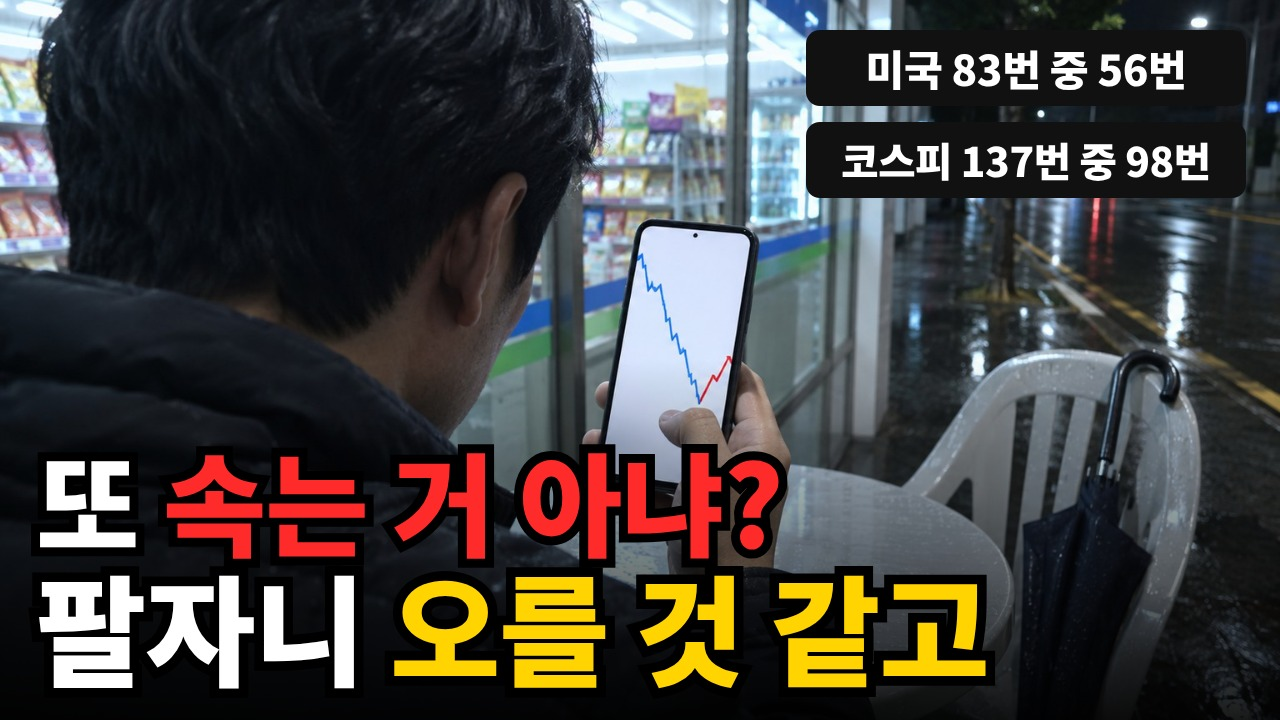
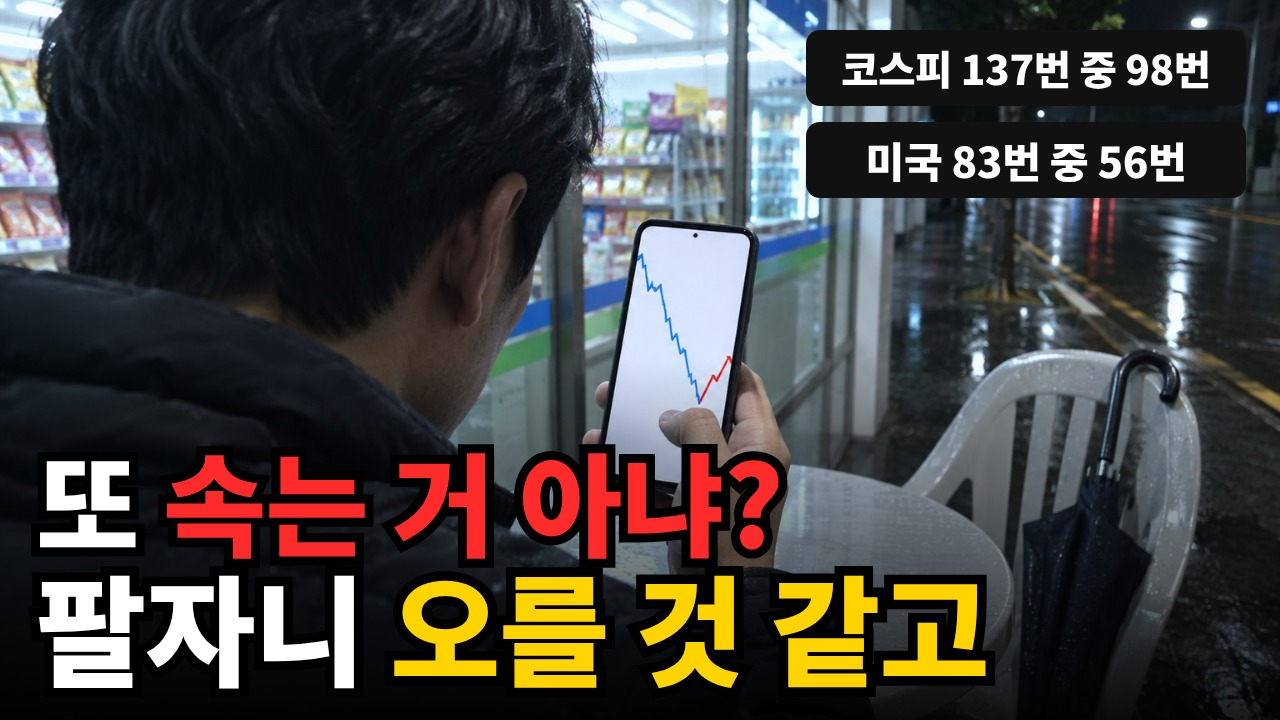
[stock] 반등 편 최종 3안 — 피드 시험 18회차 · 대본 도입 v7.2
- 제목 ① 반등에 팔까 버틸까? 급반등 셋 중 둘은 저점을 또 깼다
       ② 물렸는데 또 속는 걸까? 급반등 셋 중 둘은 저점을 또 깼다
       ③ 물렸는데 반등, 팔까 버틸까? 셋 중 둘은 저점을 또 깼다
- 썸네일 3장 다시 렌더 (꼬리표 코스피 먼저 · 2장은 '급반등' 붙임)
- 대본 도입 v7.2 (기준·코스피 숫자 10초 안 · 버텼다면 3.7년 · 절반 매도 뒤 먼저 10% 오른 경우) · board_check 통과
- upload.md v1.7 (최종 3안·버린 꼴·챕터·숫자 대조) · persona_judge_review v1.5 · persona_judge.md v1.5 · CHANGELOG · status

Claude-Session: https://claude.ai/code/session_01PYG2MqLt55ZgMMSmpQGuwc

Changed region(s): [[0.6562, 0.1833, 0.9688, 0.275], [0.6562, 0.0611, 0.9688, 0.1222]]

diff --git a/stock/source/bandeung-maesu-2026-11/upload.md b/stock/source/bandeung-maesu-2026-11/upload.md
@@ -1,51 +1,57 @@
 # bandeung-maesu-2026-11 업로드 시트 (롱폼)
 
-버전: v1.6 — 2026-11-11 — **제목·썸네일을 '피드 시험'으로 다시 정함** (사용자 "너가 페르소나 입장에서 생각했을 때 썸네일 문구, 보조문구, 제목만 봤을 때 썸네일 클릭할 것 같아 안할것 같아?" → "계속 진행해"): 이번 주 실제 영상 제목 10개 사이에 우리 제목을 섞고, 어느 게 우리 건지 모르는 새 검토자 8명(물린 개미 4·안 믿는 개미 4)에게 '뭘 누를지'를 물음 → 제목 본안 「계좌 -40%에 반등이 왔다, 팔까 버틸까? 과거 32번의 결과」 · 썸네일 본안 「내가 팔면 오른다? / 32번 중 14번」 · 대본 도입 8~9번을 새 제목에 이음(v7.1). 기록 `persona_judge_review.md` v1.4.
+버전: v1.7 — 2026-11-11 — **최종 3안 — 피드 시험 18회차까지 반복** (사용자 "너가 페르소나 입장에서 생각했을 때 썸네일 문구, 보조문구, 제목만 봤을 때 썸네일 클릭할 것 같아 안할것 같아? 안할거 같으면 계속 수정하라고 수정하고 페르소나 검증하고 정말 문제 없다고 결론낼 때 까지 계속 반복해 그게 끝나고 최종 3개 안만 나한테 알려줘"): 회차마다 새 검토자(물린 개미·안 믿는 개미) · 이번 주 실제 영상 10개 사이에 섞은 홈 화면 + 세 안 비교 + 처음 30초 내레이션 → 최종 3안(아래 1·2번) · 대본 도입 v7.2(1~12번) · 썸네일 3장 다시 렌더.
+이전 v1.6 — 2026-11-11 — **제목·썸네일을 '피드 시험'으로 다시 정함** (사용자 "너가 페르소나 입장에서 생각했을 때 썸네일 문구, 보조문구, 제목만 봤을 때 썸네일 클릭할 것 같아 안할것 같아?" → "계속 진행해"): 이번 주 실제 영상 제목 10개 사이에 우리 제목을 섞고, 어느 게 우리 건지 모르는 새 검토자 8명(물린 개미 4·안 믿는 개미 4)에게 '뭘 누를지'를 물음 → 제목 본안 「계좌 -40%에 반등이 왔다, 팔까 버틸까? 과거 32번의 결과」 · 썸네일 본안 「내가 팔면 오른다? / 32번 중 14번」 · 대본 도입 8~9번을 새 제목에 이음(v7.1). 기록 `persona_judge_review.md` v1.4.
 이전 v1.5 — 2026-11-11 — **대본 v7 기준으로 전부 다시** (사용자 지시 "너가 직접 페르소나 입장이 돼서 이탈되지 않도록 제목, 썸네일 문구 정하고 대본을 검증하라고 다시 그렇게해서 수정해봐"): 제목·썸네일은 새 검토자 둘(물린 개미·안 믿는 개미)이 세 회차에 걸쳐 고른 것 · 설명란·챕터·태그·고정 댓글을 v7 에 맞춤. 검토 기록 `persona_judge_review.md` v1.3.
 이전 v1.4 (2026-11-11 대본 v6 — 제목 등은 v5 기준이라 다시 만들어야 함 표시) · v1.3 (2026-11-10 대본 v5) · v1.2~v1.0 (2026-11-08 대본 v3~v1) — 내용은 git 이력.
-기준 파일: 대본 `bandeung-maesu-2026-11.txt` **v7.1** (도입 8~9번만 바뀜 · 128문장 · board_check 약 8.1분 ✅ 고칠 것 0) · 숫자 `calc/history.py` **v1.4** → `calc/history_result.json` (+ `calc/longform.py` v1.3 의 반등 20번) · 오디오·SRT 는 아직 없음.
+기준 파일: 대본 `bandeung-maesu-2026-11.txt` **v7.2** (도입 1~12번·첫 장 13~16번이 바뀜 · 129문장 · board_check 약 8.1분 ✅ 고칠 것 0) · 숫자 `calc/history.py` **v1.4** → `calc/history_result.json` (+ `calc/longform.py` v1.3 의 반등 20번) · 오디오·SRT 는 아직 없음.
 짝 쇼츠: `shorts/bandeung-maesu-2026-11-shorts.txt` — ⚠ 쇼츠는 옛 규칙(반등 10% · 평단 −20%마다 1.5배 · '개미 vs 대가') 그대로라 롱폼 v7 과 내용이 다름 → 다시 만들지 사용자 결정.
 
 > 업로드 채널 = 주식 채널(STOCK LAB) — 도구는 키의 채널이 다르면 멈춤.
 > 연구·교육용 콘텐츠 — 투자 상담이나 권유가 아님.
-> ⚠ **올리는 날 다시 확인할 것**: 대본 78번 「2026년 11월 10일 코스피는 최고가보다 42.5% 아래입니다」(기준일 숫자 — `python3 stock/source/bandeung-maesu-2026-11/calc/history.py` 를 새 자료로 다시 돌려 `kospi_bridge.now`) · 도입 첫 문장 「폭락 뒤에 주가가 반등했는데」는 시장이 반등한 날 둘레에 올려야 맞음(검토자: "올린 날 장이 빠지고 있으면 첫 문장부터 남 얘기").
+> ⚠ **올리는 날 다시 확인할 것**: 대본 79번 「2026년 11월 10일 코스피는 최고가보다 42.5% 아래입니다」(기준일 숫자 — `python3 stock/source/bandeung-maesu-2026-11/calc/history.py` 를 새 자료로 다시 돌려 `kospi_bridge.now`) · 도입 첫 문장 「폭락 뒤에 주가가 반등했는데」는 시장이 반등한 날 둘레에 올려야 맞음(검토자: "올린 날 장이 빠지고 있으면 첫 문장부터 남 얘기").
 
-## 1. 제목 (안 — 사용자가 고름 · 둘 다 `title_fit` 모든 화면 2줄 ✅)
+## 1. 제목 — 최종 3안 (사용자가 하나 고름 · 셋 다 `title_fit` 모든 화면 2줄 ✅ · 스튜디오 '테스트 및 비교'에 셋 다 넣을 수 있음)
 
-```
-계좌 -40%에 반등이 왔다, 팔까 버틸까? 과거 32번의 결과
-```
-
-| 안 | 제목 | 글자 | 피드 시험 (이번 주 실제 영상 10개 사이 · 검토자는 어느 게 우리 건지 모름 — **추정**) |
+| 안 | 제목 | 글자 | 짝 썸네일 |
 |---|---|---|---|
-| **1 (본안)** | 계좌 -40%에 반등이 왔다, 팔까 버틸까? 과거 32번의 결과 | 35 | 확인 회차 물린 개미·안 믿는 개미 **둘 다 이 제목 + 썸네일 1을 11개 중 1번째로 누름** ("과거에 32번 있었고 그 결과를 보여 준다는 거네, 이제 읽힌다") · 같은 꼴 「…32번의 그 뒤」로 홈 화면에 넣었을 때도 둘 다 1위 |
-| 2 | -40% 계좌에 반등, 팔면 바로 오를까? 과거 32번의 결과 | 34 | 같은 꼴 「…팔면 바로 오를까? 32번의 그 뒤」 확인 회차 둘 다 누름 ("내가 팔면 오르는 거 10년째다, 그걸 세 봤다고?") — 썸네일 1과 같은 말이 겹침 → 이 제목을 쓰면 썸네일은 2 |
-| 옛 본안 | 물렸는데 반등에 팔까 버틸까? 미국 증시 26년의 기록 | 30 | 홈 화면 물린 개미 2위 · 안 믿는 개미 3위 — 눌리긴 함. 식는 곳: "미국? 난 삼전인데" · "'26년의 기록'은 다큐·장투 훈계 예고" |
+| **1** | 반등에 팔까 버틸까? 급반등 셋 중 둘은 저점을 또 깼다 | 31 | `thumbnail_1.jpg` |
+| **2** | 물렸는데 또 속는 걸까? 급반등 셋 중 둘은 저점을 또 깼다 | 33 | `thumbnail_2.jpg` |
+| **3** | 물렸는데 반등, 팔까 버틸까? 셋 중 둘은 저점을 또 깼다 | 32 | `thumbnail_3.jpg` |
 
-- **'미국 증시'를 뺀 것만으로** 같은 물음의 제목이 물린 개미 2위 → 1위, 안 믿는 개미 3위 → 2위 (「…32번 돌려 본 실제 데이터」). '-40%'(내 계좌 숫자)를 넣자 안 믿는 개미도 1위.
-- **쓰지 않는 말 (검토자 6명이 속는 느낌이라고 함)**: '실제 데이터'·'실제 기록'(계산인데 '실제'를 붙이면 진짜 계좌인 줄 앎) · '돌려 본'(끼워 맞춘 느낌) · '해 봤습니다'(직접 매매한 줄 앎) · '계좌 32번'(계좌 32개인 줄 앎) · 'N번'만 덩그러니('32번이 뭔 32번이야' 7명 → '**과거** 32번의 **결과**'에서 읽힘) · '가짜'(기준이 없으면 낚시) · '또 떨어질까?'(전망 장사 냄새).
-- ⚠ **숫자 근거**: '-40%' = 시청자 처지(2026-11-10 코스피 −42.5% · 삼성전자 −45.1%)이자 계산의 가운데 값(32번 때 최고가 매수자 손실 가운데 값 42.3% — 조건은 '30% 넘게') · '과거 32번' = `stuck_rebound` n 32. 2회차 대본 검토에서는 제목의 '32번'이 "사실은 하락 세 번"이라 부풀려 읽힌다는 지적이 있었음 → **도입 8번에서 세 번의 폭락(닷컴 버블·금융위기·코로나)에서 나온 32번임을 먼저 밝힘**(v7.1). 올리는 날 코스피가 최고가 대비 −30% 안쪽으로 올라와 있으면 '-40%'는 시청자 처지와 안 맞음 → 그때는 옛 본안 꼴로.
-- ⚠ **제목에 시장 이름이 없음**: 검토자 넷이 "숨기고 들어갔는데 미국 얘기면 속은 기분"이라 함 → 썸네일 꼬리표 「미국·코스피 계산」으로 밝히고, 도입 4~5번에서 미국·코스피 숫자가 이어 나옴. 코스피 문장을 대본에서 빼면 이 제목은 못 씀.
+**피드 시험 결과 (검토자는 모델 — 추정)**
+- 1안: 10~18회차 검토자 약 30명이 홈 화면에서 3위 안으로 누름(대부분 1위) · 처음 30초 뒤 '끔' 0 · 속는 느낌 '없음'이 대부분 · 남은 말: 꼬리표 '미국'이 먼저(→ 코스피를 먼저로 고침).
+- 2안: 15~18회차 10명 모두 누름(물린 개미 넷 중 셋이 1위) · '끔' 0 · 남은 말: '30% 넘게 물렸는데' 옆 숫자를 30% 물린 경우로 읽음(한 명 — '급반등'을 꼬리표에 붙임) · "또 속는 걸까는 호구 소리 같다"(한 명, 그래도 누름).
+- 3안: 18회차 둘 다 홈 화면 1위 · 세 안 비교에서도 둘 다 누름 · '끔' 0 · 남은 말: "'셋 중 둘'이 뭐가 셋인지"(한 명 — 도입 10초 안에 83번 중 56번으로 풀림).
+- 세 안 모두 같은 사실(급반등 83번 중 56번 · 코스피 137번 중 98번 — 반년 안에 반등 직전 저점을 다시 깸)을 다른 첫마디로 — 결정(팔까 버틸까) · 처지+마음(물렸는데 또 속는) · 처지+결정.
+
+**버린 꼴과 까닭 (18회차 동안 — 다음 편에도 씀)**
+- 결과를 숨긴 제목(「…세어 봤다」·「…몇 년?」·「…그 말이 맞았는지 셌다」·「…의 결과」) → 안 믿는 개미가 "결과는 어디 있어" 멈춤.
+- 반반에 가까운 결과(판 뒤 먼저 오른 건 미국 32번 중 14번·코스피 70번 중 39번)를 제목에 → "반반을 법칙처럼"·"미끼" 끔. 썸네일에 「거의 반반」 → 넷 다 멈춤("볼 필요 없네").
+- 미국 숫자만 제목에(「미국 32번 중 14번」·「본전까지 3.7년」) → 물린 개미 "난 삼전인데" 멈춤 · 뒤에 미국인 걸 알면 김샘.
+- 「내가 팔면 오른다?」를 제목에 → 물린 개미는 누르지만 안 믿는 개미 넷이 "식상한 낚시·개미 놀림"(썸네일에서는 괜찮음).
+- 「닷컴·금융위기·코로나로 계산」 → "옛날 미국 얘기"(물린 개미 둘 멈춤) · 「반등 믿어도 될까?」 → "다른 채널이랑 똑같다"(둘 멈춤) · 「또 떨어질까?」·「그때 팔았다면?」 → 전망 냄새·뒷북.
+- 「본전은 길어야 다섯 달 늦었다」 → "−45%에 다섯 달? 달래는 말" 속는 느낌.
+- '실제 데이터·실제 기록·같은 처지 기록·해 봤습니다·판 뒤를 세어 봤다' → 진짜 사람 계좌·직접 매매로 읽힘.
+- ⚠ 올리는 날: 셋 다 '급반등이 온 날 둘레'에 맞는 제목 — 시장이 계속 빠지는 날에는 첫 문장(「폭락 뒤에 주가가 반등했는데」)부터 남 얘기. 79번 문장(코스피 −42.5%)은 그날 숫자로 다시 계산.
 - 클릭률 측정값은 없음 — 도달범위 보고서(`python3 tools/yt_reach.py stock fetch`)로 올린 뒤 확인.
 
-## 2. 썸네일 (3장 — `thumbnails/thumbnail_{1,2,3}.jpg` · 스튜디오 '테스트 및 비교')
+## 2. 썸네일 — 3장 (`thumbnails/thumbnail_{1,2,3}.jpg` · 같은 그림, 문구만 다름 · 제목 안과 같은 번호끼리 짝)
 
-| 장 | 주요 문구 (아래 2줄) | 말풍선 (시청자 속말) | 꼬리표 | 피드 시험 반응 |
-|---|---|---|---|---|
-| **1 본안** | 내가 팔면 오른다? / 32번 중 14번 | 버티면 또 떨어지고.. | 미국·코스피 계산 | 확인 회차 둘 다 누름 · 둘 다 1순위 조합 ("내 말이 그 말이야. 14번이면 반도 안 되네… 그럼 팔아도 된다는 거야?" · "뭘 '오른다'로 쳤는지 봐야겠다") |
-| 2 실험안 | 급반등 83번 중 / 56번은 가짜였다 | 또 속는 거 아냐..? | 미국 증시 기록 | 안 믿는 개미 누름("오늘 밤 눈이 먼저 가는 건 이것") · 물린 개미 멈춤만("겁만 주고") · ⚠ 제목의 32번과 숫자가 다름 |
-| 3 실험안 (옛 본안 = 대조군) | 3번 중 2번은 가짜 / 지금 팔까 버틸까 | 지금이라도 팔까.. | 미국 증시 기록 | 7명 중 4명 누름 · "뭐가 가짜인지 주어가 없다" · "'3번 중 2번'은 어림 말투" · 둘째 줄이 제목과 같은 말 |
+| 장 | 주요 문구 (아래 2줄) | 말풍선 | 꼬리표 (오른쪽 위) |
+|---|---|---|---|
+| **1** | 또 속는 거 아냐? / 팔자니 오를 것 같고 | 없음 | 코스피 137번 중 98번 · 미국 83번 중 56번 |
+| **2** | 30% 넘게 물렸는데 / 반등에 팔까 버틸까 | 팔자니 오를 것 같고.. | 코스피 급반등 137번 중 98번 · 미국 83번 중 56번 |
+| **3** | 팔면 오를 것 같고 / 버티면 또 떨어지고 | 없음 | 코스피 137번 중 98번 · 미국 83번 중 56번 |
 
-- **본안 문구의 근거**: '내가 팔면 오른다?' = 전체 댓글에서 좋아요가 가장 많은 묶음의 말("내가 나가는 순간 삼전하닉 … 날라갈꺼라서 못나감" 👍2,916 · "내가 삼전닉스 나가면 외국인이 돌아오고 만스피 감" 👍1,403 — `persona_judge.md` 3-A) · '32번 중 14번' = 대본 90번(절반 매도 뒤 먼저 오른 횟수, `stuck_rebound.up_first`) · 말풍선은 큰 글자와 같은 말을 되풀이하지 않고 딜레마의 나머지 반 · 정답(주식 수 5% 안팎·길어야 다섯 달)은 말하지 않음.
-- 버린 문구: 「팔든 버티든 / 주식 수 5% 차이」(확인 회차 둘 다 넘김 — "주식 수 5%가 뭔 소리야" · "차이 없다는 결론이면 볼 것도 없네" — 정답을 미리 말하면 안 누름) · 「팔자마자 오르면? / 32번 해 봤습니다」('해 봤습니다') · 「반등에 절반 팔았다 / 바로 오른 14번」(두 번 읽어야 함) · 「-40% 물린 계좌 / 반등에 팔까 버틸까」(제목과 같은 말) · 「또 속아서 샀다면 / 본전까지 몇 년?」(옛 실험안 — 이번에 견주지 않음).
-- 꼬리표: 「미국 32번 · 코스피 70번 계산」은 작아서 폰에서 안 읽히고 "코스피가 더 많은데 왜 큰 글자는 미국이냐"는 의심을 부름 → 짧고 크게 「미국·코스피 계산」. 물린 개미: "큰 글자가 미국 거면 난 코스피 70번 쪽 결과가 더 궁금함"(코스피는 70번 중 39번 — 대본 96번) → 코스피를 주인공으로 한 편은 다음 편 후보(`stock/topics/next_titles_2026-11-10.md`).
-- 그림 = `shorts/thumbnails/TH-PHOTO.jpg` (실사 · 밤 편의점 앞 · 어깨 너머 · 얼굴 안 보임) · 문구는 코드 `node video/render/thumb.mjs stock/source/bandeung-maesu-2026-11/thumbnails/thumbnail_{1,2,3}.json`. 말풍선·꼬리표는 사람 머리·손·휴대전화를 가리지 않는 오른쪽 위 빈 거리 위 (규칙 47).
-- ⚠ 시험의 한계: 검토자는 모델 · 경쟁 영상은 **제목만** 견줌(이 환경에서 다른 채널 썸네일 그림을 못 받음 — `i.ytimg.com` 막힘) · 페르소나마다 4명. 첫 회차 6명에게는 내가 쓴 속마음 요약 한 줄("팔면 바로 오를 것 같고…")이 설명에 들어가 우리 제목에 유리했음 → 확인 회차 2명은 원문 댓글만 줌(그래도 둘 다 1위).
+- 꼬리표 숫자 = 제목 '셋 중 둘'의 근거(안 믿는 개미: "몇 번 중 셋 중 둘인지 박아 놨네, 뻥은 아니겠다") · 코스피를 먼저(물린 개미 다수: "난 국장인데 미국이 먼저") · 2장은 '30% 넘게 물렸는데' 옆이라 '급반등'을 붙임(없으면 30% 물린 경우로 읽힘).
+- 문구 근거: '또 속는 거 아냐?'·'팔자니 오를 것 같고'·'버티면 또 떨어지고' = 이번 주 댓글의 속말("정말 지금이라도 수건을 던져야 하나 하루에도 수십번 왔다갔다" · "내가 나가는 순간 … 날라갈꺼라서 못나감" 👍2,916) · '30% 넘게 물렸는데' = 시청자 처지(2026-11-10 코스피 −42.5%).
+- 그림 = `shorts/thumbnails/TH-PHOTO.jpg` (실사 · 밤 편의점 앞 · 어깨 너머 · 얼굴 안 보임) · 문구는 코드 `node video/render/thumb.mjs stock/source/bandeung-maesu-2026-11/thumbnails/thumbnail_{1,2,3}.json` · 말풍선·꼬리표는 오른쪽 위 빈 거리 위(규칙 47 — 사람 머리·손·휴대전화를 가리지 않음).
 
 ## 3. 설명란 (그대로 복사 — 규칙 45: 소개 2줄 + 챕터 + 출처 + 알려 드립니다 + 해시태그 2개)
 
 ```
-폭락 뒤 반등을 보면서 '팔면 바로 오를 것 같고, 버티면 또 떨어질 것 같다' 싶었다면, 같은 자리에서 과거에 벌어진 일을 세어 봤습니다.
+폭락 뒤 반등을 보면서 '또 속는 거 아냐?', '팔자니 오를 것 같고 버티자니 또 떨어질 것 같다' 싶었다면, 같은 자리에서 과거에 벌어진 일을 세어 봤습니다.
 2000년 이후 미국 S&P 500의 급반등 83번과 큰 하락 6번, 깊이 물린 채 맞은 급반등 32번을 세고, 그때 절반을 매도했다면 어땠을지 계산했습니다. 코스피도 같은 기준으로 봤습니다.
 
 ■ 챕터
@@ -71,10 +77,10 @@
 
 - 챕터 시각은 오디오·SRT 가 생긴 뒤 4번 명령으로 채움.
 
-## 4. 챕터 다시 계산하기 (문장 번호 = 대본 v7)
+## 4. 챕터 다시 계산하기 (문장 번호 = 대본 v7.2)
 
 ```
-python tools/srt_tool.py upload stock/source/bandeung-maesu-2026-11/bandeung-maesu-2026-11.txt stock/source/bandeung-maesu-2026-11/bandeung-maesu-2026-11.srt --chapters "1=반등했는데 왜 불안할까;10=급반등 83번의 그 뒤;35=속아서 매수한 사람은 어떻게 됐나;58=매도하고 기다리면 안전할까;68=전부 걸지 않는다는 것;73=이미 많이 물렸다면;114=남겨 둔 현금이나 월급이라면;122=기록이 남긴 숫자 셋"
+python tools/srt_tool.py upload stock/source/bandeung-maesu-2026-11/bandeung-maesu-2026-11.txt stock/source/bandeung-maesu-2026-11/bandeung-maesu-2026-11.srt --chapters "1=반등했는데 왜 불안할까;13=급반등 83번의 그 뒤;36=속아서 매수한 사람은 어떻게 됐나;59=매도하고 기다리면 안전할까;69=전부 걸지 않는다는 것;74=이미 많이 물렸다면;115=남겨 둔 현금이나 월급이라면;123=기록이 남긴 숫자 셋"
 ```
 
 ## 5. 태그 (24개 — 편 낱말 + 실제 영상 태그 `stock/tag_candidates.md`)
@@ -125,26 +131,27 @@ python tools/srt_tool.py upload stock/source/bandeung-maesu-2026-11/bandeung-mae
 
 **영상까지 남은 순서** (quick_board 6번): ① 이 대본을 main 에 (Kaggle 셀은 main 만 읽음 — 지금은 작업 브랜치 `ccr-38db670e-r10a62`) → ② 오디오 → `python3 tools/audio_check.py stock bandeung-maesu-2026-11` → ③ 장면 코드 `video/episodes/bandeung-maesu-2026-11/index.html` (아직 없음) → `align-audio` → `sync` → `layout-check` → `video` → ④ 완성 mp4 를 직접 봄 → ⑤ 4번 명령으로 챕터 → `youtube_upload.py stock bandeung-maesu-2026-11 --dry-run` → `--publish-at`.
 
-## 8. 숫자 대조 (대본 v7.1 ↔ 계산 — 설명란에는 넣지 않음)
+## 8. 숫자 대조 (대본 v7.2 ↔ 계산 — 설명란에는 넣지 않음)
 
 | 대본 문장 | 숫자 | 계산 (`calc/history_result.json`) |
 |---|---|---|
-| 4·14·123 | 세 번 중 두 번 · 83번 중 56번 | `rebound_days` n 83 · fake 56 (0.675) |
-| 5 | 코스피 열 번 중 일곱 번 | `kospi_bridge` rebound 137 · fake 98 (0.715) · from 2000-01-04 |
-| 8 (v7.1) · 제목 '과거 32번' · 썸네일 '32번 중 14번' | 세 번의 폭락 속 급반등 32번 · 먼저 오른 14번 | `stuck_rebound` n 32 · declines 3 (by_decline 6·25·1) · up_first 14 |
-| 6~7·35~36 | 가짜 15번 모두 매수가 회복 · 3주~6년 · 9번이 1년 안 | `fake_buyers` n 15 · within_1y 9 · min 13거래일 · max 6.0년 |
-| 15~16 | 절반은 17거래일 · 기준 여섯 가지(열 번 중 여섯 번 안팎) | `rebound_days.days_to_break_median` 17 · `sens` 0.556~0.675 |
-| 18~22 | 2008-10-13 +11.6% → −32.6% · 20번 중 19번 | `notes.gspc_2008_10_13` · `gspc_more_drop_after` · `best_days.in_decline_10` 19 |
-| 27~30 | 스무 번 · 가짜 15(네 번 중 세 번) · 신호 13 대 전부 가짜 15 | `from_longform.signal` n 20 · actual_fake 15 · hits 13 |
-| 39~44 | 여섯 번 · 55.2% · 6.6년 · 11.7년 | `declines.rows` · `notes.dotcom_redip.years_peak_to_last_below` |
-| 48~49 | 코스피 네 번 5.5년 · 2011년 6년 | `kospi_bridge` years_max 5.5 · `peak_2011.years` 6.0 |
-| 51~55 | 여덟 곳 중 여섯 · 시스코 21년 · 씨티 −67% | `single_stocks.big8.over_10y` 6 · CSCO 21.4 · C now −67.0 |
-| 58~59·64 | 바닥 뒤 한 달 15.0% · 최소 10.7% · 9.1% | `declines.summary.after_low_1m_median`·`_min` · `best_days` 2020-03-24 |
-| 75~78 | 32번 · 세 번의 하락 · 42.3% · 코스피 42.5%(2026-11-10) | `stuck_rebound` n 32 · declines 3 · below_peak_median −42.3 · `kospi_bridge.now` |
-| 82~83 | 버티면 19.6% 더(급반등 다음 날 계좌 대비) · 본전 3.7년 | `stuck_rebound.hold_min_1y_median` −19.6 · `hold_years_median` 3.71 |
-| 87 | 105주쯤 · 95주쯤 | `shares_down_pct` 5.5 · `shares_up_pct` −4.6 |
-| 90~97 | 18 대 14 · 길어야 다섯 달 · 여섯 달 안 · 코스피 70번 중 39번 · 넉 달 | `down_first` 18 · `up_first` 14 · `max_later_months` 5.0 · `sens` 0.39·0.48년 · `kospi_bridge.stuck` 39/70 · 3.7달 |
-| 116~120 | 전부 매수 8번 → 나눠 매수 1번 · 13.7% → 5.2% · 2008-03 −24.9% | `from_longform.cash_plan` |
+| 4~5·13·29·125 · 제목 '셋 중 둘' · 썸네일 꼬리표 | 1년 최고가 −10% 뒤 하루 +3% · 83번 중 56번(반년 안 = 126거래일) · 묶으면 네 번 중 세 번 | `rebound_days` n 83 · fake 56 (0.675) · `from_longform.signal` 20·15 |
+| 6 · 썸네일 꼬리표 | 코스피 137번 중 98번 | `kospi_bridge` rebound 137 · fake 98 (0.715) · from 2000-01-04 |
+| 7~11 | 30% 넘게 물린 채 급반등 · 버텼다면 본전까지 가운데 값 3.7년 · 절반 매도 뒤 10% 더 떨어지기 전에 10% 오른 경우 미국 32번 중 14번 · 코스피 70번 중 39번 | `stuck_rebound` n 32 · hold_years_median 3.71 · up_first 14 · `kospi_bridge.stuck` n 70 · up_first 39 |
+| 15~16 | 저점 = 반등 직전 20거래일 최저 종가 · 깨진 56번의 절반은 17거래일 | `rebound_days.days_to_break_median` 17 |
+| 17 | 기준 여섯 가지(열 번 중 여섯 번 안팎) | `rebound_days.sens` 0.556~0.675 |
+| 19~23 | 2008-10-13 +11.6% → −32.6% · 20번 중 19번 | `notes.gspc_2008_10_13` · `gspc_more_drop_after` · `best_days.in_decline_10` 19 |
+| 28~32 | 스무 번 · 가짜 15 · 신호 13 대 전부 가짜 15 | `from_longform.signal` n 20 · actual_fake 15 · hits 13 |
+| 36~37 | 가짜 15번 모두 매수가 회복 · 9번 1년 안 · 최장 약 6년 | `fake_buyers` n 15 · within_1y 9 · max 6.0 |
+| 40~45 | 여섯 번 · 55.2% · 6.6년 · 11.7년 | `declines.rows` · `notes.dotcom_redip.years_peak_to_last_below` |
+| 49~50 | 코스피 네 번 5.5년 · 2011년 6년 | `kospi_bridge` years_max 5.5 · `peak_2011.years` 6.0 |
+| 52~56 | 여덟 곳 중 여섯 · 시스코 21년 · 씨티 −67% | `single_stocks.big8.over_10y` 6 · CSCO 21.4 · C now −67.0 |
+| 59~60·65 | 바닥 뒤 한 달 15.0% · 최소 10.7% · 9.1% | `declines.summary.after_low_1m_median`·`_min` · `best_days` 2020-03-24 |
+| 76~79 | 32번 · 세 번의 하락 · 42.3% · 코스피 42.5%(2026-11-10) | `stuck_rebound` n 32 · declines 3 · below_peak_median −42.3 · `kospi_bridge.now` |
+| 83~84 | 버티면 19.6% 더 · 본전 3.7년 | `stuck_rebound.hold_min_1y_median` −19.6 · `hold_years_median` 3.71 |
+| 88 | 105주쯤 · 95주쯤 | `shares_down_pct` 5.5 · `shares_up_pct` −4.6 |
+| 91~98 | 18 대 14 · 길어야 다섯 달 · 여섯 달 안 · 코스피 70번 중 39번 · 넉 달 | `down_first` 18 · `up_first` 14 · `max_later_months` 5.0 · `sens` · `kospi_bridge.stuck` 39/70 · 3.7달 |
+| 117~121 | 전부 매수 8번 → 나눠 매수 1번 · 13.7% → 5.2% · 2008-03 −24.9% | `from_longform.cash_plan` |
 
 - ⚠ **위험 관련 규칙이 바뀜 (대본 v5·v6 → v7)**: '이미 많이 물렸다면'의 실험 = (옛) 주식 80·현금 20 · 평단 −10% 에 절반 매도 · 판 값 −10·20·30% 재매수 → (새) **1년 최고가 대비 −30% 아래에서 나온 급반등 다음 날 절반 매도 · 판 값 ±10% 에서 다시 매수**. 까닭: 검토자(물린 개미) "−10%에 반 팔라는 건 이미 −50% 맞은 사람한텐 버스 떠난 얘기". 옛 숫자(5번 대 2번 · 36.6% 대 29.1%)는 v7 에 없음. 현금 쪽 규칙(첫 5% · 평단 −10%마다 5% · 최고가 회복 시 나머지)은 그대로.
 - 계산하지 않은 사실: '2000년 무렵 미국 시가총액 상위'(여덟 회사의 선정 — 널리 알려진 당시 순위에 따른 것 · 올리기 전 한 번 더 확인) .

diff --git a/stock/source/bandeung-maesu-2026-11/persona_judge_review.md b/stock/source/bandeung-maesu-2026-11/persona_judge_review.md
@@ -1,7 +1,33 @@
 # 반등 편 롱폼 — 판단용 페르소나 검토 (제목·썸네일 클릭 / 대본 이탈)
 
-VERSION: v1.4 — 2026-11-11 — **맨 위 '제목·썸네일 피드 시험' 절 새로** (사용자 "…제목만 봤을 때 썸네일 클릭할 것 같아 안할것 같아?" → "계속 진행해") · 제목·썸네일 본안 바뀜 · 대본 도입 8~9번(v7.1). v1.3 — 2026-11-11 — v7 절에 3회차 결과·끝 상태·남은 위험을 채움 (대본 v7 확정 — 128문장). v1.2 — 2026-11-11 — **맨 위 'v7 — 시청자로 읽기 검증' 절 새로** (사용자 지시 "너가 직접 페르소나 입장이 돼서 이탈되지 않도록 제목, 썸네일 문구 정하고 대본을 검증하라고 다시 그렇게해서 수정해봐" — `stock/guides/persona_judge.md` 9번). v1.1 — 2026-11-11 — **맨 위 'v6' 절 새로** (대본을 아예 새로 씀 — 사용자 지시 "…시청자의 생각은 폭락 후 반등했는데 이게 진짜로 반등하는건지 또 떨어질려고 하는건지 불안하다는거야 이걸 미국 주식 시장의 역사라는 정해져 있는 사실들을 근거로 해소로 해야돼"). 아래 0~4번은 v4 → v5 기록(지난 판). v1.0 — 2026-11-10 — 사용자 지시 "진짜,가짜반등 대본도 고쳐보고 제목 등 영상 만들 때 필요한거 생성해줘" · "페르소나 만들었으니 그것들을 잘 활용해야돼". 판단표 = `stock/guides/persona_judge.md` v1.1 (4번 클릭 · 5번 이탈) · 대상 = 사용자 완성본(v4 — 커밋 `0631853fe`) → 고친 대본 v5.
+VERSION: v1.5 — 2026-11-11 — **맨 위 '최종 3안 — 피드 시험 3~18회차' 절 새로** (사용자 "…정말 문제 없다고 결론낼 때 까지 계속 반복해 그게 끝나고 최종 3개 안만 나한테 알려줘"). v1.4 — 2026-11-11 — **맨 위 '제목·썸네일 피드 시험' 절 새로** (사용자 "…제목만 봤을 때 썸네일 클릭할 것 같아 안할것 같아?" → "계속 진행해") · 제목·썸네일 본안 바뀜 · 대본 도입 8~9번(v7.1). v1.3 — 2026-11-11 — v7 절에 3회차 결과·끝 상태·남은 위험을 채움 (대본 v7 확정 — 128문장). v1.2 — 2026-11-11 — **맨 위 'v7 — 시청자로 읽기 검증' 절 새로** (사용자 지시 "너가 직접 페르소나 입장이 돼서 이탈되지 않도록 제목, 썸네일 문구 정하고 대본을 검증하라고 다시 그렇게해서 수정해봐" — `stock/guides/persona_judge.md` 9번). v1.1 — 2026-11-11 — **맨 위 'v6' 절 새로** (대본을 아예 새로 씀 — 사용자 지시 "…시청자의 생각은 폭락 후 반등했는데 이게 진짜로 반등하는건지 또 떨어질려고 하는건지 불안하다는거야 이걸 미국 주식 시장의 역사라는 정해져 있는 사실들을 근거로 해소로 해야돼"). 아래 0~4번은 v4 → v5 기록(지난 판). v1.0 — 2026-11-10 — 사용자 지시 "진짜,가짜반등 대본도 고쳐보고 제목 등 영상 만들 때 필요한거 생성해줘" · "페르소나 만들었으니 그것들을 잘 활용해야돼". 판단표 = `stock/guides/persona_judge.md` v1.1 (4번 클릭 · 5번 이탈) · 대상 = 사용자 완성본(v4 — 커밋 `0631853fe`) → 고친 대본 v5.
 ※ **추정**입니다 — 클릭률·시청 지속 측정값이 아닙니다 (우리 채널 자료 없음). 연구·교육용 — 투자 권유 아님.
+
+## 최종 3안 — 피드 시험 3~18회차 (2026-11-11 · 회차마다 새 검토자 · 모두 약 90명)
+
+**방법**: 회차마다 새 검토자(물린 개미 A · 안 믿는 개미 E, 처지와 원문 댓글만) → ① 이번 주 실제 영상 10개 + 우리 제목 하나인 홈 화면에서 영상마다 누름/멈춤만/넘김 + 1~3위 → ② 같은 검토자에게 세 안(제목+썸네일 문구+보조) 비교 + **처음 30초 내레이션**을 주고 '숫자를 무슨 뜻으로 읽었나 · 속는 낱말 · 순서 · 들어와서 계속 봄/끔'. 멈추는 기준 = 두 페르소나 모두 홈 화면 3위 안 · 세 안 비교에서 누름 · 30초 뒤 '끔' 0 · 속는 느낌 없음.
+
+**최종 3안** (`upload.md` v1.7 1·2번)
+| 안 | 제목 | 썸네일 큰 글자 / 보조 |
+|---|---|---|
+| 1 | 반등에 팔까 버틸까? 급반등 셋 중 둘은 저점을 또 깼다 | 또 속는 거 아냐? / 팔자니 오를 것 같고 · 꼬리표 코스피 137번 중 98번 · 미국 83번 중 56번 |
+| 2 | 물렸는데 또 속는 걸까? 급반등 셋 중 둘은 저점을 또 깼다 | 30% 넘게 물렸는데 / 반등에 팔까 버틸까 · 말풍선 팔자니 오를 것 같고.. · 꼬리표 코스피 급반등 137번 중 98번 · 미국 83번 중 56번 |
+| 3 | 물렸는데 반등, 팔까 버틸까? 셋 중 둘은 저점을 또 깼다 | 팔면 오를 것 같고 / 버티면 또 떨어지고 · 꼬리표 코스피 137번 중 98번 · 미국 83번 중 56번 |
+
+**회차별로 바뀐 것 (줄임)**
+| 회차 | 시험한 것 | 걸린 것 → 고친 것 |
+|---|---|---|
+| 3~4 | 「계좌 -40%…과거 32번의 결과」 외 | 「계좌 -40%」는 미국 지수 계산이라 속은 느낌 · '되샀다'(직접 매매) → '30% 넘게' · '그랬다' |
+| 5~6 | 「내가 팔면 오른다? 미국 32번 중 14번…」 · 「…83번 중 56번」 | 숫자가 뭘 센 건지 · '102번'(합친 숫자) · '거의 반반'(넷 다 멈춤) → 숫자 줄이고 코스피 꼬리표 |
+| 7~9 | 「같은 처지 기록」 · 「그때 팔았다면?」 · 「믿어도 될까? 미국…」 | '기록' = 진짜 계좌 · 뒷북 · 미국을 앞에 → 물린 개미 멈춤 |
+| 10 | 「반등에 팔까 버틸까? 급반등 셋 중 둘은 저점을 또 깼다」 | **결정을 앞에 두자 처음으로 두 페르소나 모두 1위** → 1안 확정 |
+| 11~14 | 본전 몇 년 · '다섯 달 늦었다' · 「닷컴·금융위기·코로나로 계산」 · 「그 말이 맞았는지 셌다」 | 도입이 약속을 30초 안에 안 지킴 · 달래는 말 · 옛날 얘기 · 결과 숨김 → 도입 다시(3.7년·닷컴 등) |
+| 15~17 | 「물렸는데 또 속는 걸까? …」 · 「버텼다면 3.7년, 팔았다면?」 · 「코스피에선 70번 중 39번 그랬다」 · 「반등 믿어도 될까? …」 | 2안 확정(넷 중 셋 1위) · 나머지는 결과 숨김·반반 미끼·흔한 말 |
+| 18 | 3안 「물렸는데 반등, 팔까 버틸까? 셋 중 둘은…」 · 꼬리표 코스피 먼저 · '급반등' 붙임 | 둘 다 홈 화면 1위 · 세 안 모두 누름·계속 봄 → 끝 |
+
+**대본 도입도 같이 바뀜 (v7.2)**: 기준(1년 최고가 −10% 뒤 하루 +3%·반년 안)을 10초 안에 · 코스피 같은 기준 숫자 · 닷컴 버블·금융위기·코로나 때처럼 30% 넘게 물린 채 → 팔았어야 할까 버텼어야 할까 · 버텼다면 본전 3.7년 · 절반 매도 뒤 먼저 10% 오른 경우 미국 14/32·코스피 39/70 · 기준까지 보여 드림. '팔자마자'(계산은 ±10% 어느 쪽이 먼저인지 — 가운데 값 23거래일)는 쓰지 않음.
+
+**끝까지 남은 것 (모두 30초 안 내레이션으로 풀림 · 속는 느낌 아님)**: 꼬리표만 보면 83번이 무엇인지 한 번 더 봄(제목과 같이 보면 풀림) · '3.7년은 미국만 — 코스피는?'(코스피 본전 기간은 지금 하락이 아직 안 끝나 같은 셈이 치우침 → 영상에서 쓰지 않음) · 도입 「절반을 매도한 뒤…」 문장이 귀로 한 번에 안 들어옴(v7.2 에서 더 줄임 — 다시 읽히지 않음).
 
 ## 제목·썸네일 피드 시험 (2026-11-11 · `persona_judge.md` 9번 7 · 새 검토자 8명)
 

diff --git a/guides/status.md b/guides/status.md
@@ -1,5 +1,6 @@
 # 지금 상태·다음 할 일 (인수인계)
 
+버전: v3.99 — 2026-11-11 — **반등 편 최종 3안 (피드 시험 18회차 · 검토자 약 90명)**: ① 「반등에 팔까 버틸까? 급반등 셋 중 둘은 저점을 또 깼다」 ② 「물렸는데 또 속는 걸까? …」 ③ 「물렸는데 반등, 팔까 버틸까? 셋 중 둘은 저점을 또 깼다」 + 썸네일 3장 · 대본 도입 v7.2 · `upload.md` v1.7 · `persona_judge.md` v1.5. **사용자 결정**: 3안 중 무엇을 본안으로(셋 다 '테스트 및 비교'에 넣을 수 있음) · 올리는 날 급반등 둘레인지 · 79번 문장 숫자 다시 계산.
 버전: v3.98 — 2026-11-11 — **반등 편 제목·썸네일을 피드 시험으로 다시** (사용자 "…제목만 봤을 때 썸네일 클릭할 것 같아 안할것 같아?" → "계속 진행해"): 새 도구 `tools/feed_sheet.py` v1.0(이번 주 실제 영상 사이에 우리 제목을 섞은 시험지) · 제목 본안 「계좌 -40%에 반등이 왔다, 팔까 버틸까? 과거 32번의 결과」 · 썸네일 본안 「내가 팔면 오른다? / 32번 중 14번」(확인 회차 두 페르소나 모두 11개 중 1위 — 추정) · 대본 v7.1(도입 8~9번) · `upload.md` v1.6 · `persona_judge.md` v1.4 9번 7. **올리는 날 확인**: 코스피가 최고가 대비 −30% 안쪽이면 제목의 '-40%'를 못 씀 · 78번 문장 날짜 숫자.
 버전: v3.97 — 2026-11-11 — **반등 편 대본 v7 + 제목·썸네일 — 시청자가 되어 읽기 검증** (사용자 "너가 직접 페르소나 입장이 돼서 이탈되지 않도록 제목, 썸네일 문구 정하고 대본을 검증하라고"): `persona_judge.md` v1.3 **9번**(판단표 체크로 끝내지 않음 — 새 검토자 둘 × 회차) · 대본 v7(128문장·약 8.1분·board_check ✅) · 제목 본안 「물렸는데 반등에 팔까 버틸까? 미국 증시 26년의 기록」 · 썸네일 3장 다시 · `upload.md` v1.5 · `calc/history.py` v1.4 · 검토 기록 `persona_judge_review.md` v1.3 (남은 위험: 물린 개미가 현금 대목에서 나감 · 종목 물린 사람 답은 '기록 없음 + 정할 것 넷'까지). **사용자 결정**: 코스피 문장 넣은 것 · 끝인사 뺀 것 · 짝 쇼츠 다시 만들지 · 대본을 main 에.
 버전: v3.96 — 2026-11-11 — **반등 편 대본을 아예 새로 씀 (v6)** (사용자 "대본을 아예 새로 쓰자 … 진짜로 반등하는건지 또 떨어질려고 하는건지 불안하다는거야 이걸 미국 주식 시장의 역사라는 정해져 있는 사실들을 근거로 해소"): `stock/source/bandeung-maesu-2026-11/bandeung-maesu-2026-11.txt` v6 (147문장·약 8.3분·board_check ✅) = 세 가지 기록(급반등 83번 중 56번 가짜 · 큰 하락 6번 모두 회복 0.3~6.6년 · 바닥 뒤 한 달 +15%) → 맞히지 말고 나눈다 · 숫자 `calc/history.py` v1.0. **다음**: 사용자 대본 확인 → 제목·썸네일·설명란·챕터를 v6 로 다시(`upload.md` v1.4 ⚠) → main 에 → 오디오.

diff --git a/CHANGELOG.md b/CHANGELOG.md
@@ -1,5 +1,15 @@
 # CHANGELOG — youtube_topic_analyzer
 
+## 2026-11-11 (4) — 반등 편 최종 3안 (피드 시험 18회차) · 대본 도입 v7.2
+
+- 사용자 "너가 페르소나 입장에서 생각했을 때 썸네일 문구, 보조문구, 제목만 봤을 때 썸네일 클릭할 것 같아 안할것 같아? 안할거 같으면 계속 수정하라고 수정하고 페르소나 검증하고 정말 문제 없다고 결론낼 때 까지 계속 반복해 그게 끝나고 최종 3개 안만 나한테 알려줘".
+- **방법**: 회차마다 새 검토자(물린 개미·안 믿는 개미) · 홈 화면(이번 주 실제 영상 10개 사이) + 세 안 비교 + 처음 30초 내레이션 · 3~18회차, 검토자 약 90명(모델 — 추정).
+- **최종 3안** (`stock/source/bandeung-maesu-2026-11/upload.md` v1.6 → **v1.7**): ① 「반등에 팔까 버틸까? 급반등 셋 중 둘은 저점을 또 깼다」 ② 「물렸는데 또 속는 걸까? 급반등 셋 중 둘은 저점을 또 깼다」 ③ 「물렸는데 반등, 팔까 버틸까? 셋 중 둘은 저점을 또 깼다」 · 썸네일 3장(`thumbnail_{1,2,3}.json/.jpg`) 다시 렌더 — 문구·말풍선·꼬리표(코스피 먼저) · 마지막 회차 세 안 모두 두 페르소나가 누르고 30초 뒤에도 봄.
+- **대본 v7.1 → v7.2** (도입 1~12번 · 첫 장 13~16번 · 129문장 · board_check ✅ 약 8.3분): 기준(1년 최고가 −10% 뒤 하루 +3% · 반년 안)·코스피 137번 중 98번을 10초 안에 · 닷컴 버블·금융위기·코로나 때처럼 30% 넘게 물린 채 → 팔았어야 할까 버텼어야 할까 · 버텼다면 본전 3.7년 · 절반 매도 뒤 10% 더 떨어지기 전에 10% 오른 경우 미국 32번 중 14번·코스피 70번 중 39번 · 첫 장은 83번·56번 되풀이 대신 저점 기준(반등 직전 20거래일 최저 종가). ⚠ '팔자마자'를 쓰지 않음 — 계산은 ±10% 어느 쪽이 먼저인지(가운데 값 23거래일).
+- ⚠ 코스피 '본전까지 몇 년'은 쓰지 않음 — `kospi_bridge.stuck.hold_years_median` 2.73 은 아직 안 끝난 2026년 하락을 빼고 센 값이라 짧은 쪽으로 치우침.
+- 규칙: `stock/guides/persona_judge.md` v1.4 → **v1.5** (9번 7 — 통과한 꼴·떨어지는 꼴 · 세 안 비교에 처음 30초 내레이션) · 기록 `persona_judge_review.md` v1.5.
+- 위험 관련 값은 바꾸지 않음. 연구·교육용 — 투자 권유가 아님.
+
 ## 2026-11-11 (3) — 반등 편 제목·썸네일을 '피드 시험'으로 다시 정함 · `tools/feed_sheet.py` v1.0
 
 - 사용자 "너가 페르소나 입장에서 생각했을 때 썸네일 문구, 보조문구, 제목만 봤을 때 썸네일 클릭할 것 같아 안할것 같아?" → 내 답 "멈추긴 하는데 안 누를 가능성이 더 높다" → "계속 진행해".
